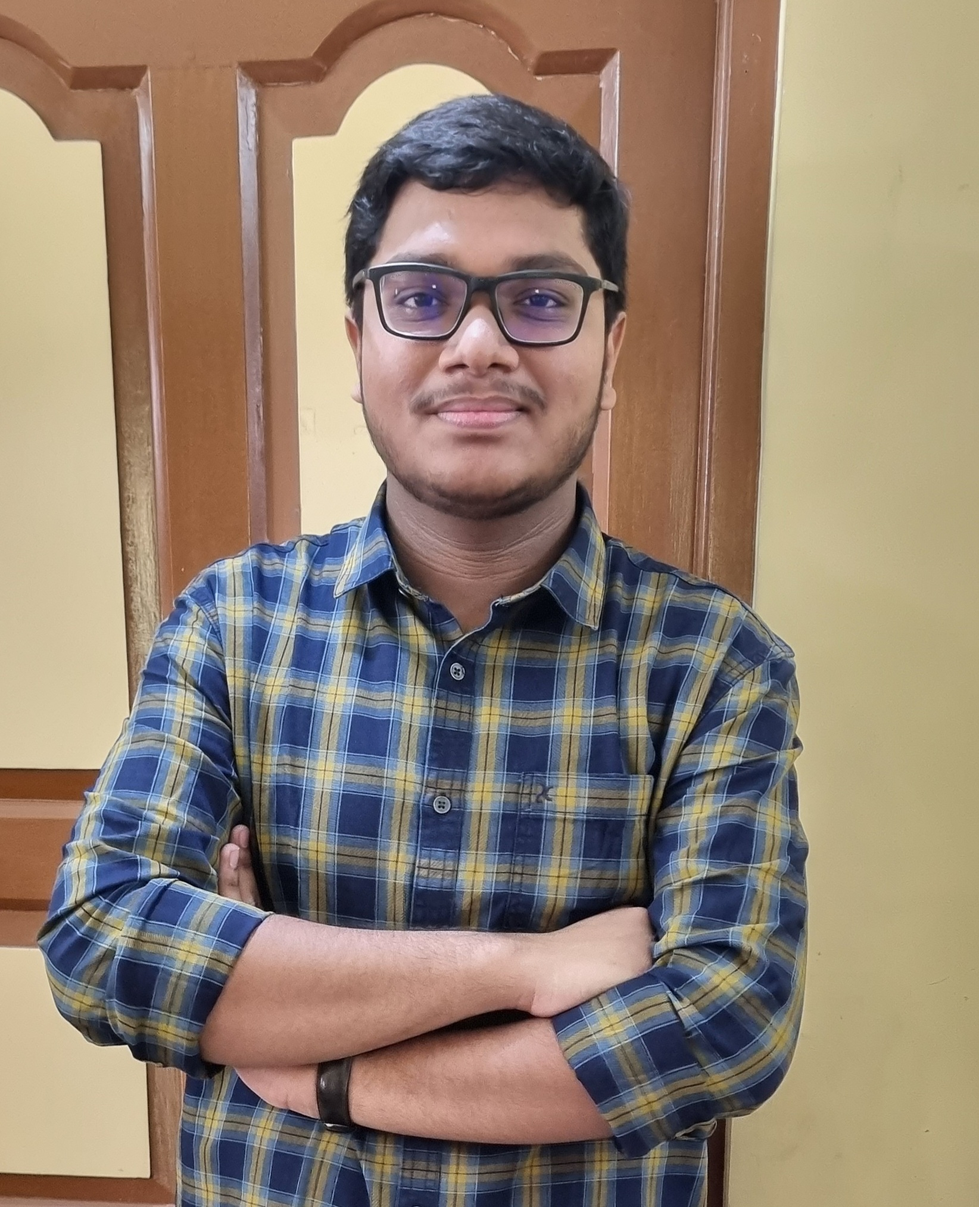
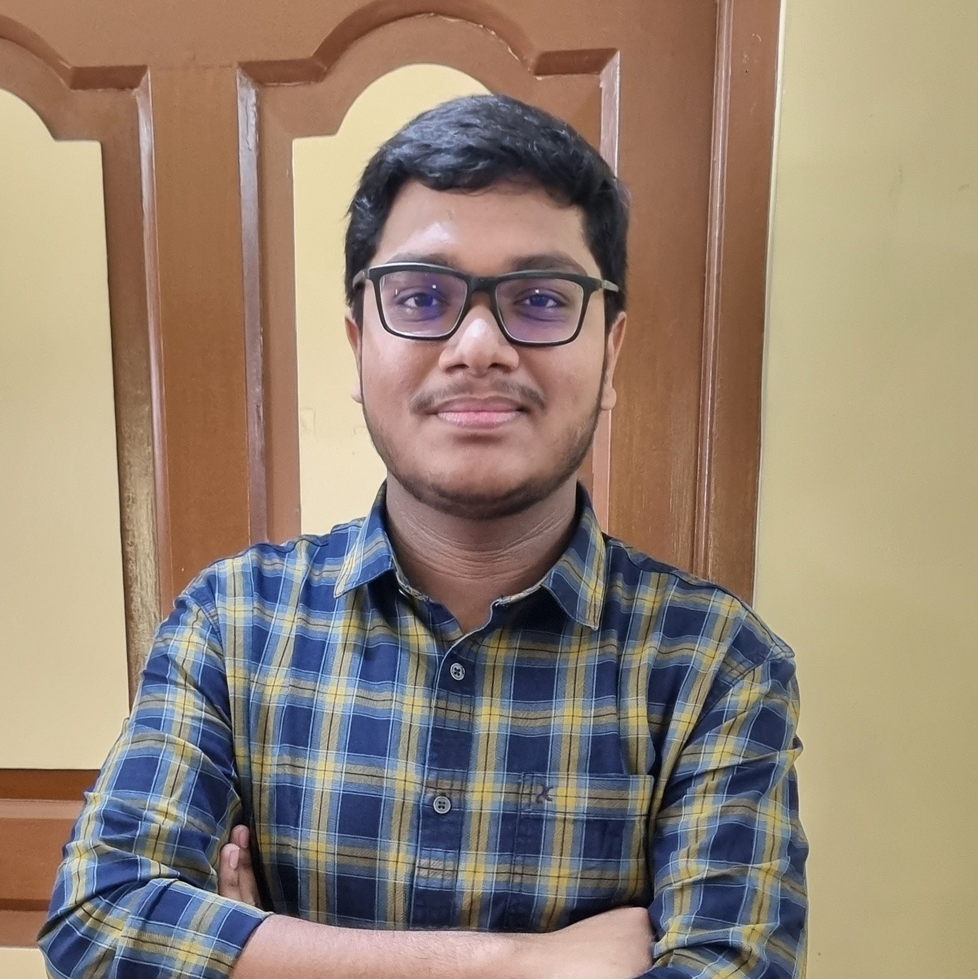
2022 new members updated

diff --git a/event.html b/event.html
@@ -188,6 +188,22 @@
                 <div class="event">
                     <div class=" card-deck">
                         <div class="card">
+                            <img class="card-img-top" src="assets/img/events/helloieee.jpeg" alt="Card image cap">
+                            <div class="card-body">
+                                <h5 class="card-title">Hello IEEE</h5>
+                                <hr style=" border: 1px solid;  border-radius: 5px;">
+                                <p class="card-text">Lorem ipsum dolor sit amet consectetur adipisicing elit. Quaerat excepturi id nisi illum rem maiores voluptates nobis quae ducimus quod?
+                                    </br><br><br>
+                                    <button><a href="https://ieee-jaduniv.in/hello-IEEE/"
+                                            target="_blank"><span>Website</span></a></button>
+
+                                </p>
+                            </div>
+                            <div class="card-footer">
+                                <small class="text-muted">Date: 14th September, 2022</small>
+                            </div>
+                        </div>
+                        <div class="card">
                             <img class="card-img-top" src="assets/img/events/elevatex2.jpg" alt="Card image cap">
                             <div class="card-body">
                                 <h5 class="card-title">ElevateX 2.0</h5>
@@ -214,7 +230,7 @@
                                 <hr style=" border: 1px solid;  border-radius: 5px;">
                                 <p class="card-text">“DoubleSlash - Code.Commit.Create” was a monumental 48-hour long Hackathon organized by the IEEE Jadavpur University Student Branch, IEEE Young Professionals Kolkata section and IEEE Computer Society Kolkata section. This was the first event in 2021.
                                    
-                                    </br><br><br><br>
+                                    </br><br><br><br><br>
                                     <button><a
                                             href="https://doubleslash.ieee-jaduniv.in/"
                                             target="_blank"><span>Website</span></a></button>
@@ -225,6 +241,10 @@
                                 <small class="text-muted">Date: 9th - 11th July, 2021</small>
                             </div>
                         </div>
+                    </div>
+                    </br>
+                    </br>
+                    <div class="card-deck">
                         <div class="card">
                             <img class="card-img-top" src="assets/img/events/pass-the-mic.jpeg" alt="Card image cap">
                             <div class="card-body">
@@ -245,10 +265,6 @@
                                 <small class="text-muted">Date: 18th December, 2020</small>
                             </div>
                         </div>
-                    </div>
-                    </br>
-                    </br>
-                    <div class="card-deck">
                         <div class="card">
                             <img class="card-img-top" src="assets/img/events/projection.jpeg" alt="Card image cap">
                             <div class="card-body">
@@ -290,6 +306,11 @@
                             </div>
                         </div>
 
+
+                    </div>
+                    <br><br>
+
+                    <div class="card-deck">
                         <div class="card">
                             <img class="card-img-top" src="assets/img/events/techx.png" alt="Card image cap">
                             <div class="card-body">
@@ -308,10 +329,6 @@
                                 <small class="text-muted">Date: 28 Feb - 1 Mar, 2020</small>
                             </div>
                         </div>
-                    </div>
-                    <br><br>
-
-                    <div class="card-deck">
                         <div class="card">
                             <img class="card-img-top" src="assets/img/events/mla.jpeg" alt="Card image cap">
                             <div class="card-body">
@@ -350,6 +367,9 @@
                             </div>
                         </div>
 
+                    </div>
+                    <br><br>
+                    <div class="card-deck">
                         <div class="card">
                             <img class="card-img-top" src="assets/img/events/thinkAI.png" alt="Card image cap">
                             <div class="card-body">
@@ -367,7 +387,40 @@
                                 <small class="text-muted">Date: 19 - 20 April, 2019</small>
                             </div>
                         </div>
+                        <div class="card noborder">
+                            <!-- <img class="card-img-top" src="assets/img/events/thinkAI.png" alt="Card image cap">
+                            <div class="card-body">
+                                <h5 class="card-title">Think AI</h5>
+                                <hr style=" border: 1px solid;  border-radius: 5px;">
+                                <p class="card-text">Think AI, organized by IEEE Computer Society Student Chapter,
+                                    sought to provide exposure in fields of Machine Learning and AI, through interactive
+                                    sessions with speakers and hands- on implementation of Machine Learning
+                                    algorithms.</br><br><br><br>
 
+                                </p>
+                                <button><a href="thinkai/index.html" target="_blank"><span>Website</span></a></button>
+                            </div>
+                            <div class="card-footer">
+                                <small class="text-muted">Date: 19 - 20 April, 2019</small>
+                            </div> -->
+                        </div>
+                        <div class="card noborder">
+                            <!-- <img class="card-img-top" src="assets/img/events/thinkAI.png" alt="Card image cap">
+                            <div class="card-body">
+                                <h5 class="card-title">Think AI</h5>
+                                <hr style=" border: 1px solid;  border-radius: 5px;">
+                                <p class="card-text">Think AI, organized by IEEE Computer Society Student Chapter,
+                                    sought to provide exposure in fields of Machine Learning and AI, through interactive
+                                    sessions with speakers and hands- on implementation of Machine Learning
+                                    algorithms.</br><br><br><br>
+
+                                </p>
+                                <button><a href="thinkai/index.html" target="_blank"><span>Website</span></a></button>
+                            </div>
+                            <div class="card-footer">
+                                <small class="text-muted">Date: 19 - 20 April, 2019</small>
+                            </div> -->
+                        </div>
                     </div>
                     <!-- <div class="row">
                         

diff --git a/team.html b/team.html
@@ -482,7 +482,7 @@
                 <!-- Grid column -->
                 <div class="col-md-2  mb-md-0 mb-5">
                     <div class="avatar mx-auto">
-                        <img src="assets/img/team/IMG_20210911_200140 - Sayan Mandal.jpg" class="rounded z-depth-1-half"
+                        <img src="assets/img/team/WhatsApp Image 2022-10-16 sayan mandal.jpeg" class="rounded z-depth-1-half"
                             style="height: 250px; width: 250px;" alt="Sample avatar">
                     </div>
                     <h4 class="font-weight-bold dark-grey-text my-4">Sayan Mandal</h4>
@@ -493,7 +493,7 @@
                         <i class="fab fa-facebook-f"></i>
                     </a>
                     <!-- instagram -->
-                    <a href="https://www.instagram.com/sayan._.mandal/" type="button"
+                    <a href="https://www.instagram.com/sayanmandal.k/" type="button"
                         class="btn-floating btn-sm mx-1 mb-0 btn-tw">
                         <i class="fab fa-instagram "></i>
                     </a>
@@ -535,7 +535,7 @@
 
         </section>
         <section class="team-section text-center my-5" style="margin: 0 50px 0 50px;">
-            <h2>Computer Society Chapter</h2>
+            <h2>Computer Society (CS) Chapter</h2>
             <!-- Section description -->
 
             <br>
@@ -1400,7 +1400,7 @@
                         <img src="assets/img/team/20221012_210417 - Somenath Garai.jpg"
                             class="rounded z-depth-1-half" style="height: 250px; width: 250px;" alt="Sample avatar">
                     </div>
-                    <h4 class="font-weight-bold dark-grey-text my-4">somenath gorai</h4>
+                    <h4 class="font-weight-bold dark-grey-text my-4">Somenath Gorai</h4>
                     <h6 class="text-uppercase grey-text mb-3"><strong>PR Team</strong></h6>
                     <!--facebook-->
                     <a href="https://www.facebook.com/profile.php?id=100072152386210" type="button"
@@ -1414,6 +1414,32 @@
                     </a>
                     <!-- Linkdin-->
                     <a href="https://www.linkedin.com/in/somenath-garai" type="button"
+                        class="btn-floating btn-sm mx-1 mb-0 btn-git">
+                        <i class="fab fa-linkedin-in"></i>
+                    </a>
+                </div>
+                <!-- Grid column -->
+
+                <!-- Grid column -->
+                <div class="col-md-2 mb-md-0 mb-5">
+                    <div class="avatar mx-auto">
+                        <img src="assets/img/team/IMG_20220424_151216 - Tahera Bano.jpg"
+                            class="rounded z-depth-1-half" style="height: 250px; width: 250px;" alt="Sample avatar">
+                    </div>
+                    <h4 class="font-weight-bold dark-grey-text my-4">Tahera Bano</h4>
+                    <h6 class="text-uppercase grey-text mb-3"><strong>PR Team</strong></h6>
+                    <!--facebook-->
+                    <a href="https://m.facebook.com/100052346770542/" type="button"
+                        class="btn-floating btn-sm mx-1 mb-0 btn-email">
+                        <i class="fab fa-facebook-f"></i>
+                    </a>
+                    <!-- instagram-->
+                    <a href="https://www.instagram.com/taherabano28/" type="button"
+                        class="btn-floating btn-sm mx-1 mb-0 btn-fb">
+                        <i class="fab fa-instagram"></i>
+                    </a>
+                    <!-- Linkdin-->
+                    <a href="https://www.linkedin.com/in/tahera-bano-704211238" type="button"
                         class="btn-floating btn-sm mx-1 mb-0 btn-git">
                         <i class="fab fa-linkedin-in"></i>
                     </a>

diff --git a/assets/css/style.css b/assets/css/style.css
@@ -2174,6 +2174,10 @@ section {
   border: 2px solid rgba(3, 30, 87, 0.671) !important;
 }
 
+.event .card.noborder {
+  border: 0px solid rgba(3, 30, 87, 0.671) !important;
+}
+
 .event button {
   width: 40%;
   display:block;
